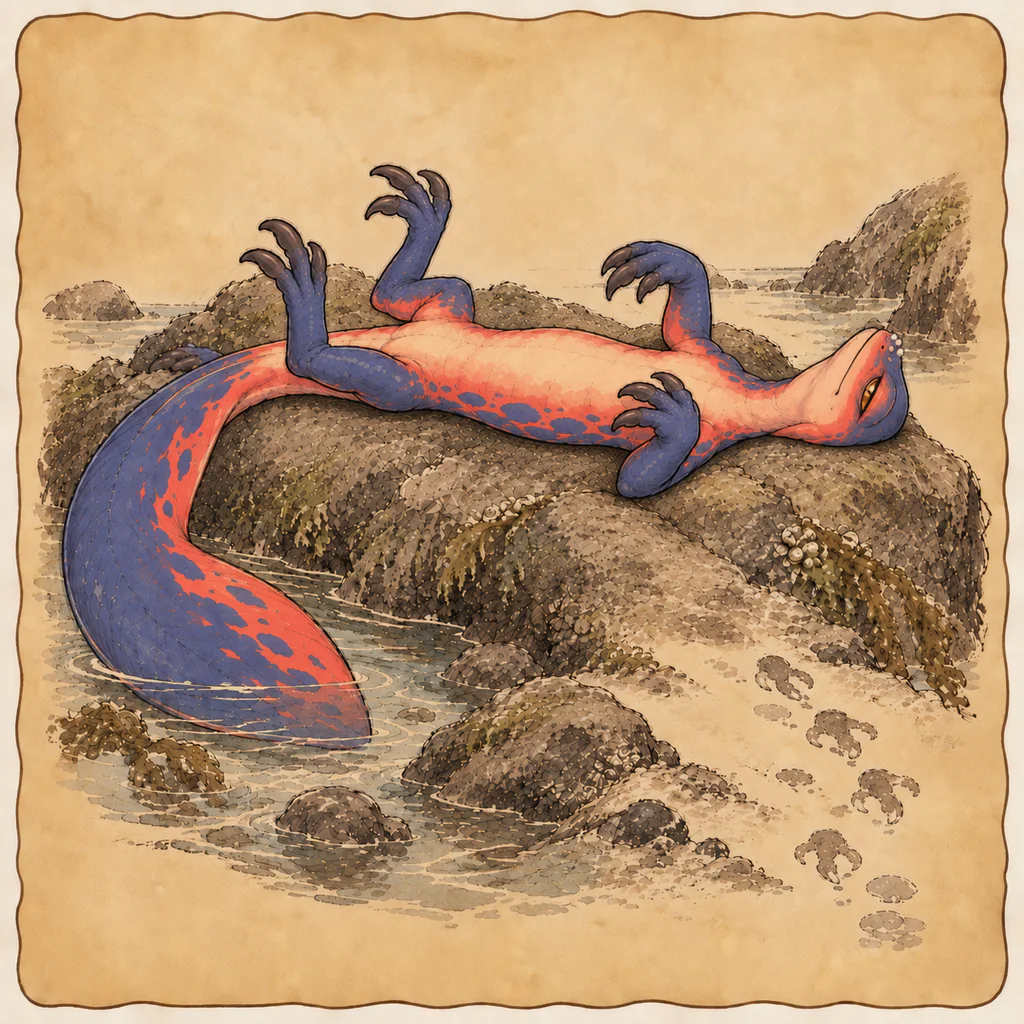
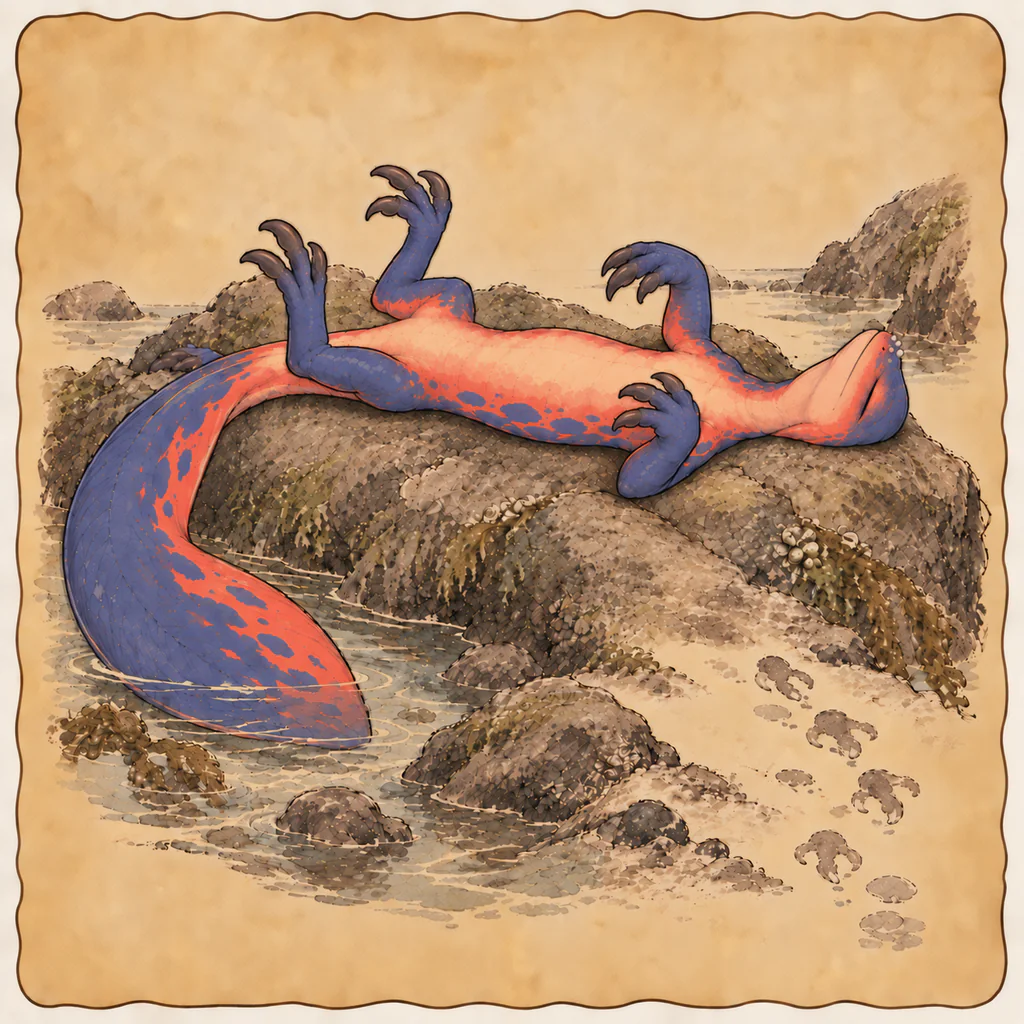
creature stats tweak + aguana journal fix

diff --git a/apps/web/src/constants/tdLevels/level6.ts b/apps/web/src/constants/tdLevels/level6.ts
@@ -270,9 +270,9 @@ export const LEVEL_6: TDLevelData = {
     {
       id: 'level_6_poguin',
       creatureId: 'poguin',
-      level: 8,
+      level: 16,
       speedMultiplier: 1.25,
-      hpMultiplier: 1.25,
+      hpMultiplier: 5,
       balancedLaneHop: {
         pathIndices: [0, 2],
         triggerProgresses: [0.35, 0.65],
@@ -285,21 +285,14 @@ export const LEVEL_6: TDLevelData = {
       id: 'level_6_voltusk',
       creatureId: 'voltusk',
       targetingRangeMultiplier: 2,
-      level: 20,
+      level: 22,
       stationaryPosition: {
         x: 50,
         y: 25,
       },
       abilityId: 'VOLTUSK_ELECTRIC_ORB',
-      hpMultiplier: 40,
+      hpMultiplier: 50,
       weakenedThreshold: 0.3,
-    },
-    {
-      id: 'level_6_aguana',
-      creatureId: 'aguana',
-      level: 8,
-      speedMultiplier: 1.1,
-      hpMultiplier: 0.9,
     },
   ],
   waves: [
@@ -325,14 +318,6 @@ export const LEVEL_6: TDLevelData = {
           concurrentWithPrevious: true,
           uncapturable: true,
         },
-        {
-          enemyDefinitionId: 'level_6_aguana',
-          count: 1,
-          spawnIntervalMs: 1000,
-          delayBeforeGroupMs: 800,
-          pathIndex: 1,
-          turnAroundAtEnd: true,
-        },
       ],
     },
     {
@@ -356,14 +341,6 @@ export const LEVEL_6: TDLevelData = {
           turnAroundAtEnd: true,
           concurrentWithPrevious: true,
           uncapturable: true,
-        },
-        {
-          enemyDefinitionId: 'level_6_aguana',
-          count: 2,
-          spawnIntervalMs: 1200,
-          delayBeforeGroupMs: 700,
-          pathIndex: 1,
-          turnAroundAtEnd: true,
         },
       ],
     },

diff --git a/apps/web/src/constants/creatures.ts b/apps/web/src/constants/creatures.ts
@@ -264,12 +264,12 @@ export const VOLTUSK: CosmoidTemplate = {
   type: ElementType.STEEL,
   secondaryType: ElementType.ELECTRIC,
   baseStats: {
-    hp: 90,
-    attack: 74,
-    defense: 88,
-    specialAttack: 92,
-    specialDefense: 78,
-    speed: 24,
+    hp: 110,
+    attack: 85,
+    defense: 110,
+    specialAttack: 110,
+    specialDefense: 85,
+    speed: 30,
   },
   baseExperience: 96,
   iconImg: '/UI/Icons/voltusk_icon.png',
@@ -291,12 +291,12 @@ export const POGUIN: CosmoidTemplate = {
   type: ElementType.ELECTRIC,
   secondaryType: ElementType.WATER,
   baseStats: {
-    hp: 58,
-    attack: 52,
-    defense: 48,
-    specialAttack: 78,
-    specialDefense: 62,
-    speed: 76,
+    hp: 45,
+    attack: 50,
+    defense: 40,
+    specialAttack: 65,
+    specialDefense: 45,
+    speed: 75,
   },
   baseExperience: 76,
   iconImg: '/UI/Icons/poguin_icon.png',

diff --git a/apps/web/src/engine/tower-defense/enemyAbilities.ts b/apps/web/src/engine/tower-defense/enemyAbilities.ts
@@ -83,10 +83,10 @@ export const ENEMY_ABILITY_DEFS: Record<string, EnemyAbilityDefinition> = {
     type: 'TOWER_GROUND_ORB',
     initialCooldownMs: 2500,
     cooldownMs: 4500,
-    projectileTravelMs: 1400,
+    projectileTravelMs: 2500,
     aimDurationMs: 350,
     paralysisDurationMs: 5000,
-    paralysisAttackSpeedMultiplier: 0.65,
+    paralysisAttackSpeedMultiplier: 0.5,
     impactRadius: 4,
     targetCount: 1,
     cursedTargetCount: 3,

diff --git a/docs/cosmoids/voltusk.md b/docs/cosmoids/voltusk.md
@@ -10,6 +10,7 @@
 - **ID:** `voltusk`
 - **Name concept:** Volt + tusk, directly connecting electricity with its defining anatomy.
 - **Typing:** Steel/Electric
+- **Evolutionary stage:** Final form; earlier family stages remain unspecified.
 - **Creature basis:** Walrus, with Pacific walrus biology informing its sensitive whiskers and tusk displays.
 - **External inspiration:** Lightning collection, electrical energy storage, and the relationship between visible strength and social status.
 - **Story placement:** The Ironbell Navy officer's boss partner in [Level 6](../levels/level-6.md).
@@ -74,6 +75,24 @@ Defeating the boss frees Tigrevel. Strake is stunned by the loss, Kip urges ever
 
 Bell or gong calls may contribute to this encounter, but their timing, effects, and relationship to minions are open. Follow the [Level 6 record](../levels/level-6.md) for the broader objective, recruitment ending, and unsettled battle details.
 
+## Approved Stat Direction
+
+Approved October 1, 2026: Voltusk is a final form with substantial HP, strong
+physical defense, and powerful special attacks. Its weight and steel tusks also
+support credible physical attacks. Special defense is solid but lower than
+physical defense; very low speed is its defining limitation. These tendencies
+preserve its heavy, armored identity when using shared or off-type moves.
+
+[Walrein](https://pokemondb.net/pokedex/walrein) supplied the body and bulk
+comparison, while [Magnezone](https://pokemondb.net/pokedex/magnezone) supplied the
+Steel/Electric special-attacker comparison. The approved spread favors living
+body mass over Magnezone's greater special power and speed.
+
+The authored stats live only in
+[`creatures.ts`](../../apps/web/src/constants/creatures.ts). This approval
+replaces the initial integration defaults; Level 6 encounter multipliers still
+require separate balance evaluation.
+
 ## Creation Record
 
 - **Final name selected:** Voltusk
@@ -83,12 +102,12 @@ Bell or gong calls may contribute to this encounter, but their timing, effects, 
 - **Visual selection:** Regal walrus direction, golden-yellow recolor, then marking variation 3 with black chest chevrons and flipper bands.
 - **Image status:** Approved standalone concept, copied unchanged from the generated source.
 - **Production status:** All four previews approved before background removal, per the user's instruction. Transparent head icon and left/down/up sprites are exported and registered; see [the asset review and final exports](reviews/voltusk/README.md) and [creation provenance](../art/CREATURE_PROVENANCE.md). Right-facing visuals mirror the left sprite.
-- **Initial gameplay defaults:** Slow, bulky special attacker: HP 90, Attack 74, Defense 88, Special Attack 92, Special Defense 78, Speed 24; base experience 96. Reuses the existing `lizard` movement profile, Body Rush (`TACKLE`), and Spark (`SPARK`), both available at level 1. These are integration defaults, not final Level 6 encounter balance.
+- **Initial gameplay defaults:** Integrated as a slow, bulky special attacker with reused movement and attacks. Its placeholder stats were replaced by the approved October 1, 2026 stat direction above. Current gameplay values are owned by the species registry.
 - **Placement status:** Reserved as the Level 6 boss in the creature design document. The runtime still has a locked Level 6 placeholder, so no waves or capture policy have been added. The creature is registered independently of the future encounter.
 
 ## Open Decisions
 
-- Decide whether Voltusk is a single-stage species or belongs to an evolutionary family; no evolution is approved.
+- Decide whether Voltusk has earlier family stages; its final-form status is approved, but no earlier forms are designed.
 - Define broader habitat, distribution, physical size, diet, and ecology beyond its approved storm-seeking behavior.
 - Tune the initial display scale and gameplay defaults during Level 6 encounter balancing.
 - Decide boss and minion mechanics, including whether bell/gong calls or lightning collection have gameplay effects.

diff --git a/docs/cosmoids/poguin.md b/docs/cosmoids/poguin.md
@@ -10,6 +10,7 @@
 - **ID:** `poguin`
 - **Name concept:** Pogo + penguin, pronounced "POH-gwin"; the name connects its springy jumping with its animal basis.
 - **Typing:** Electric/Water
+- **Evolutionary stage:** Stage 1, with room for a future evolution; no evolved form or evolution requirement is approved.
 - **Creature basis:** Rockhopper and other crested penguins, with emperor penguin group movement as a separate behavioral inspiration.
 - **External inspiration:** Dance, shared rhythm, pogo-like bouncing, and useful cooperation turned into a performance.
 - **Story placement:** Selected supporting enemy direction for the Ironbell Navy officer's recapture effort in [Level 6](../levels/level-6.md).
@@ -72,6 +73,26 @@ The user endorsed rockhopper jumping as an additional source for the level. The 
 
 Do not infer approved attack IDs, damage, movement speed, invulnerability during jumps, terrain bypass, stun rules, pulse timing, or hauling progress from these notes. Final mechanics need implementation and balance decisions. The officer forces Voltusk into a Cursed Aura state by unidentified means; Poguin has no approved independent cursed form or evolution.
 
+## Approved Stat Direction
+
+Approved October 1, 2026: Poguin is a lightly built stage-one creature whose
+speed and charged splashes are its main strengths. Speed is its highest stat,
+followed by special attack. Its oversized feet still support useful physical
+attacks, while modest HP and defenses provide a meaningful limitation and leave
+room for evolution. These tendencies preserve its agile identity when using
+shared or off-type moves.
+
+[Piplup](https://pokemondb.net/pokedex/piplup) supplied the unevolved penguin
+comparison, [Chinchou](https://pokemondb.net/pokedex/chinchou) the Electric/Water
+comparison, and [Buizel](https://pokemondb.net/pokedex/buizel) the energetic aquatic
+movement comparison. The approved spread emphasizes agility over Piplup's bulk
+and special attacks over Buizel's physical emphasis.
+
+The authored stats live only in
+[`creatures.ts`](../../apps/web/src/constants/creatures.ts). This approval
+replaces the initial integration defaults; Level 6 encounter multipliers still
+require separate balance evaluation.
+
 ## Creation Record
 
 - **Selection and final naming date:** September 7, 2026.
@@ -87,7 +108,7 @@ Do not infer approved attack IDs, damage, movement speed, invulnerability during
 ## Open Decisions
 
 - Finalize the species description, habitat, physical size, and ecology beyond the selected character and movement ideas.
-- Decide whether Poguin is a single-stage species or has an evolutionary family; none is approved.
+- Design Poguin's future evolution and decide its evolution requirement; its stage-one status is approved.
 - Decide whether hopping is a movement presentation, an attack, a terrain interaction, or a combination, and define its readable counters.
 - Resolve group synchronization, hauling effects, interactions with Voltusk, wave composition, and balance in Level 6.
 - Decide capture availability and progression.

diff --git a/docs/cosmoids/aguana.md b/docs/cosmoids/aguana.md
@@ -98,6 +98,8 @@ The family now uses **Warmth**, a persistent 0-100% battle resource based on the
 - **Story placement:** Capturable level-8 Aguana appear in both Level 6 waves on the center lane.
 - **Journal observation:** After a short dive, Aguana may stretch belly-up across a sun-warmed tidal rock with its head reclined and all four feet loose. The unusually vulnerable pose shows how completely it relaxes when it feels safe enough to recover its warmth.
 - **Journal artwork:** [`art-source/creatures/journal/aguana_journal.png`](../../art-source/creatures/journal/aguana_journal.png) -> `/UI/Journal/aguana_journal.webp`
+- **Journal revision approved October 1, 2026:** Used built-in ImageGen for localized edits to give Aguana a gently closed resting eye and neutral mouth, then smooth the pelvic underside into an uninterrupted belly surface without suggestive anatomical contours. The approved 1254x1254 PNG preserves the belly-up pose, species identity, four limbs, paddle tail, shoreline scene, and parchment treatment; the journal optimizer publishes the 1024x1024 WebP at the established quality settings.
+- **Revision inspection:** Reviewed the approved source, runtime derivative, and a 256px journal-size preview. The relaxed face and smooth underside remain readable, the anatomy and safe crop are intact, and no text or watermark was introduced. The parchment page remains opaque, matching its source treatment.
 - **Creation provenance:** [historical integration record](../art/CREATURE_PROVENANCE.md)
 - **Production status:** Integrated into the creature registry, journal, tower-defense visuals, Level 6 encounter data, and creation record.
 
